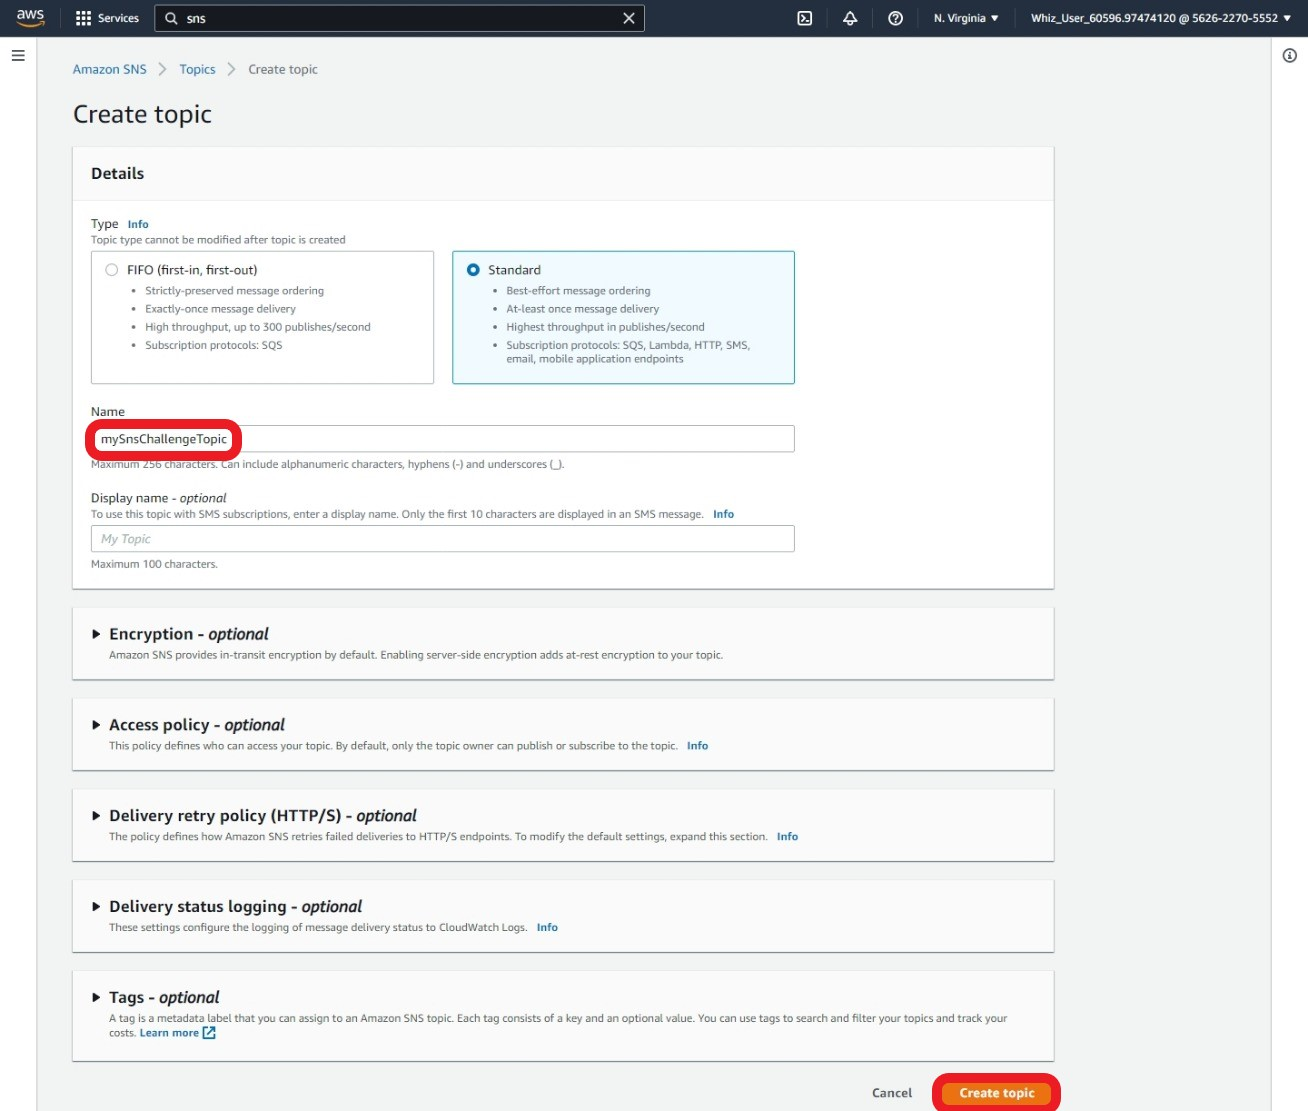
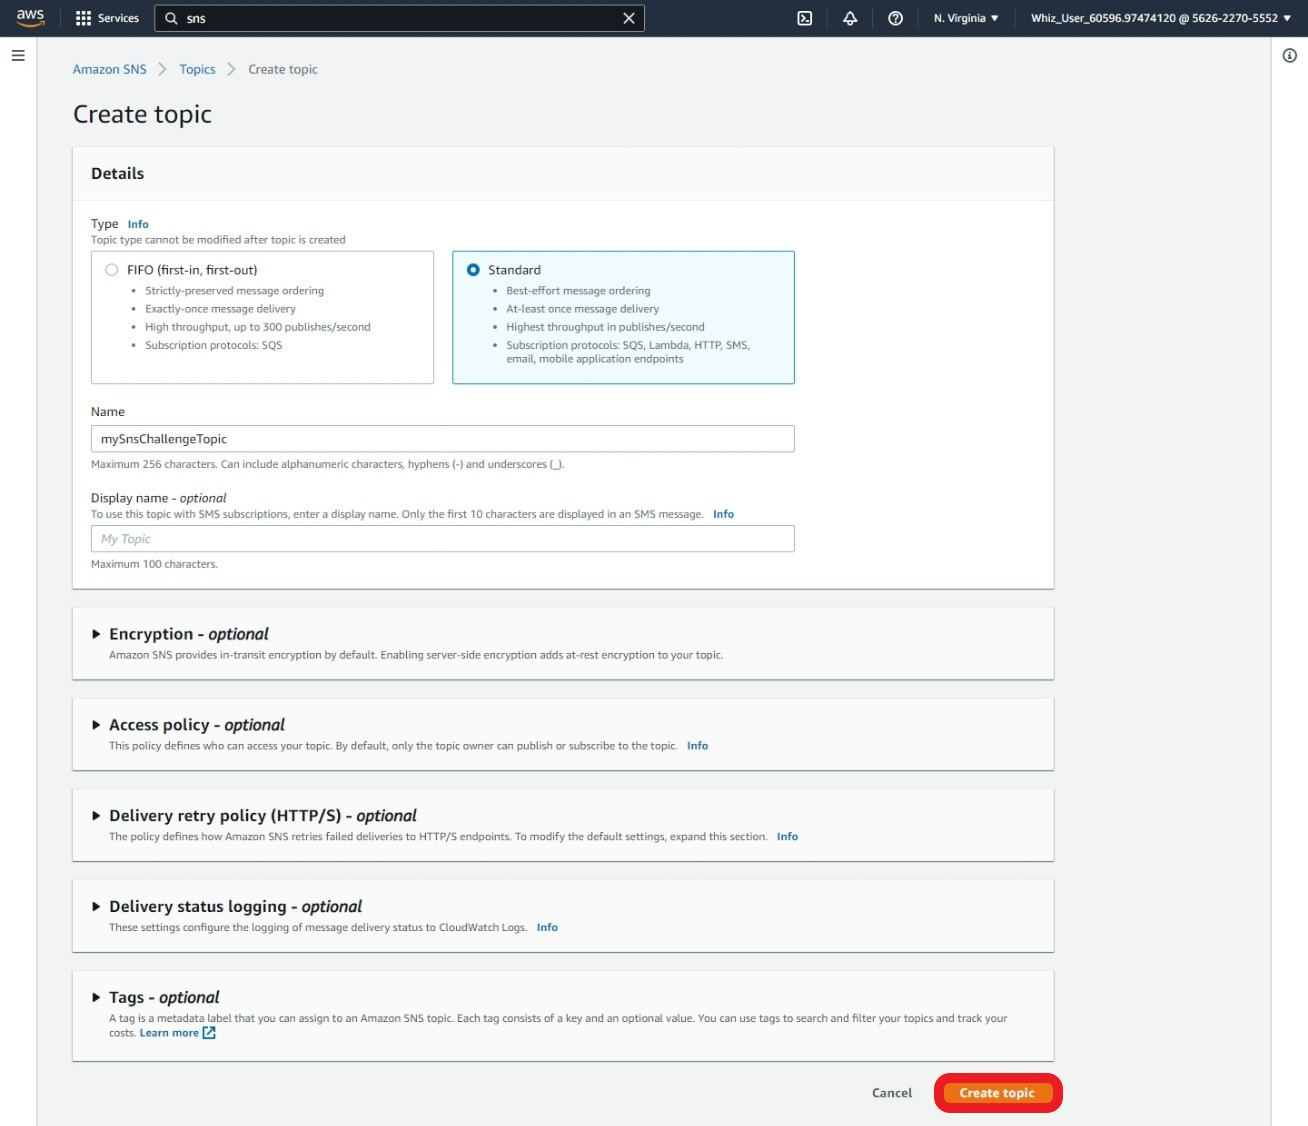
init

diff --git a/Readme.md b/Readme.md
@@ -35,25 +35,58 @@ A company XYZ is deploying a new web application that helps customers to upload 
 
 ---
 <br><br>
-Download the zip file and extract index.html and error.html
 
-Login into AWS and search/choose *S3*.
+
+Login into AWS and search/choose *SNS*.
 
 <p align="center">
-  <img width="1000" src="choose s3.jpg">
+  <img width="1000" src="create sns 1.jpg">
 </p>
 
-Click *Create bucket*.
+Type in *mySnsChallengeTopic* under **Topic name**.
+
+Click *Next step*.
+
+<p align="center">
+  <img width="1000" src="create sns 2.jpg">
+</p>
+
+Click *Create topic*.
+
+<p align="center">
+  <img width="1000" src="create sns 3.jpg">
+</p>
+
+ Click *Create subscription*.
+
+<p align="center">
+  <img width="1000" src="create sub 1.jpg">
+</p>
+
+Under **Protocol**, select *Email*.
+
+Under **Endpoint**, type in an appropriate email address.
+
+Click *Create subscription*.
+
+<p align="center">
+  <img width="1000" src="create sub 2.jpg">
+</p>
+
+Check the email and confirm the subscription.
+
+<p align="center">
+  <img src="confirm 1.jpg">
+</p>
+<p align="center">
+  <img src="confirm 2.jpg">
+</p>
+
+Search and chooose *S3*.
 
 <p align="center">
   <img width="1000" src="create bucket 1.jpg">
 </p>
-
-Enter a globally unique bucket name.
-
-Uncheck *Block all public access*.
-
-Check the box to acknowledge the bucket being public
 
 Click *Create bucket*.
 
@@ -61,87 +94,88 @@ Click *Create bucket*.
   <img width="1000" src="create bucket 2.jpg">
 </p>
 
-Open notepad or any other text editor.
-
-Copy and paste the bucket policy into it.
-
-Back in AWS, select the bucket and click *Copy ARN*.
-
-Replace *S3_BUCKET_ARN* with the actual ARN in the text editor.
-
-Click on your bucket.
+Input a bucket name and then click *Create bucket*.
 
 <p align="center">
-  <img width="1000" src="copy arn.jpg">
+  <img  width="1000" src="create bucket 3.jpg">
 </p>
 
-Click *Upload*.
+Selct the new bucket and Click *Copy ARN*.
+
+Paste the bucket's ARN somewhere for later use.
 
 <p align="center">
-  <img width="1000" src="upload 1.jpg">
+  <img width="1000" src="copy ARN.jpg">
 </p>
 
-Click *Add files*.
+Navigate back to **SNS**/**Topics** and click on *mySnsChallengeTopic*.
 
 <p align="center">
-  <img width="1000" src="add files.jpg">
-</p>
-Select both index.html and error.html and click open.
-
-Both files will appear in **Files and Folders**.
-
-Check *Upload*.
-
-<p align="center">
-  <img src="upload 2.jpg">
+  <img width="1000" src="access policy 1.jpg">
 </p>
 
-Navigate to the bucket and click *Permissions*.
+Click *Edit*.
 
 <p align="center">
-  <img width="1000" src="permissions 1.jpg">
+  <img width="1000" src="access policy 2.jpg">
 </p>
 
-Under **Bucket policy**, click *Edit*.
+Replace the selected portions with <code>"ArnLike": {"aws:SourceArn": "yourbucketsARN"</code>.
+
+Click *Save changes*.
 
 <p align="center">
-  <img  width="1000" src="permissions 2.jpg">
+  <img width="1000" src="access policy 3.jpg">
 </p>
 
-Delete the current policy.
-
 <p align="center">
-  <img width="1000" src="permissions 3.jpg">
+  <img width="1000" src="access policy 4.jpg">
 </p>
 
-From the text editor, copy and paste the policy then click *Save chnages*.
+Navigate back to **S3**/**Buckets** and click on your bucket.
 
 <p align="center">
-  <img width="1000" src="permissions 4.jpg">
+  <img width="1000" src="create event 1.jpg">
 </p>
 
 Click *Properties*.
 
 <p align="center">
-  <img width="1000" src="website 1.jpg">
+  <img width="1000" src="create event 2.jpg">
 </p>
 
-Under **Static website hosting** click *Edit*.
+Click *Create event notifications*.
 
 <p align="center">
-  <img width="1000" src="website 2.jpg">
+  <img width="1000" src="create event 3.jpg">
 </p>
 
-Select *Enable* and *Host a static website*.
+Input *uploadObjectS3Event* under **Event name**.
 
-For **Index document**, type *index.html*.
+Under **Event types**/**Object creation**, check *Put*.
 
-For **error document**, type *error.html*.
+Under **Destination**, select *SNS Topic*, *Choose from your SNS topics* and *mySnsChallengeTopic*.
 
 Click *Save changes*.
 
 <p align="center">
-  <img width="1000" src="website 3.jpg">
+  <img width="1000" src="create event 4.jpg">
+</p>
+
+Under **Objects**, click *Upload*.
+
+<p align="center">
+  <img width="1000" src="upload 1.jpg">
+</p>
+
+Click *Add files* and select an PNG file to upload.
+
+Verify you choose a file.
+
+Click *Upload*.
+
+<p align="center">
+  <img width="1000" src="upload 2.jpg">
 </p>
 
 <h1>Lab is complete</h1>
@@ -150,6 +184,5 @@ Click *Save changes*.
   <img src="validation.jpg">
 </p>
 
-<h1>Video Example</h1>
+<h1><a href="https://youtu.be/qbfdUv-r66Y">Video Example</a></h1>
 
-[![Video Example](vid.jpg)](https://youtu.be/1KOqOgfG8HQ)
